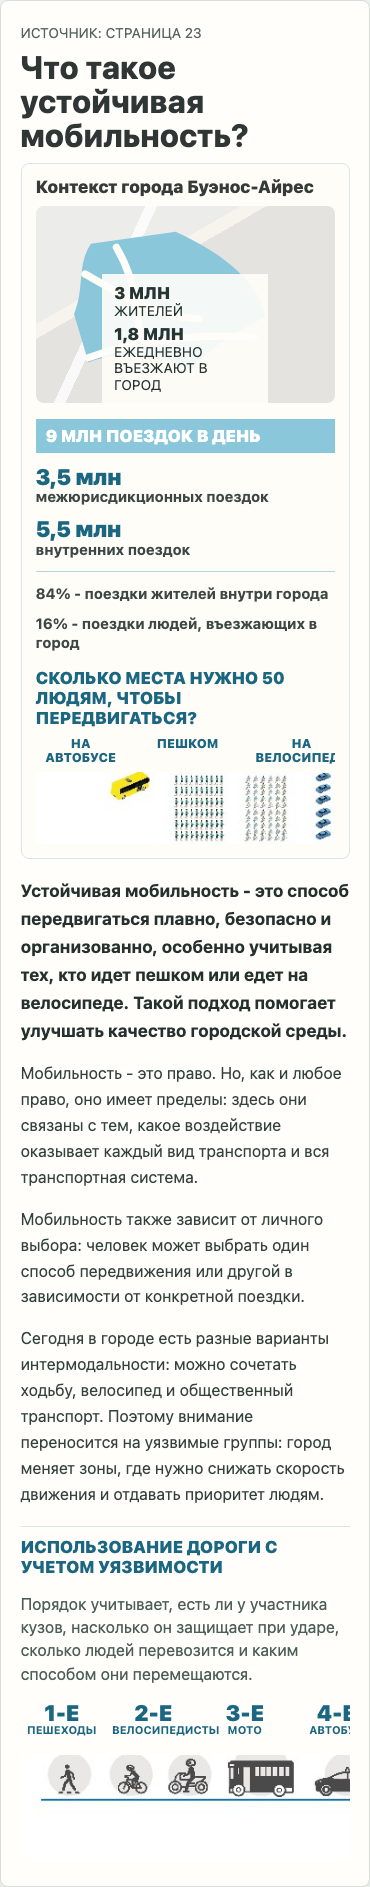
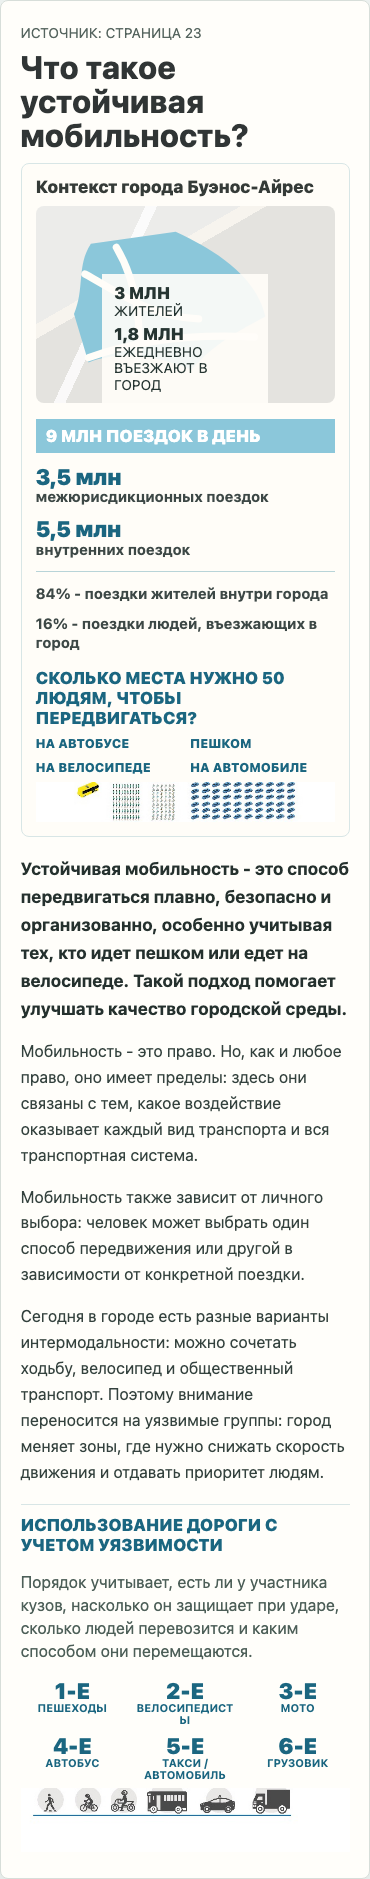
Fix mobile sustainable mobility infographic layout

diff --git a/tests/e2e/app.spec.ts b/tests/e2e/app.spec.ts
@@ -2771,6 +2771,12 @@ test("Manual guide exposes Chapter 1 section pages and keeps later sections pend
     if (document.documentElement.scrollWidth > viewportWidth + tolerance) {
       problems.push(`document horizontal overflow ${document.documentElement.scrollWidth} > ${viewportWidth}`);
     }
+    for (const scroller of Array.from(root.querySelectorAll(".manual-source-row-scroll"))) {
+      if (scroller.scrollWidth > scroller.clientWidth + tolerance) {
+        const parentBlock = scroller.closest("[data-block-id]");
+        problems.push(`${parentBlock?.getAttribute("data-block-id") ?? "source row"} requires horizontal scroll`);
+      }
+    }
     for (const element of Array.from(root.querySelectorAll('[data-testid="manual-guide-section-block"], .manual-space-labels span, .manual-vulnerability-labels span'))) {
       const rect = element.getBoundingClientRect();
       const style = window.getComputedStyle(element);

diff --git a/src/styles.css b/src/styles.css
@@ -3085,11 +3085,30 @@ small,
     grid-template-columns: 1fr;
   }
 
-  .manual-space-labels,
+  .manual-source-row-scroll {
+    overflow-x: visible;
+  }
+
+  .manual-space-labels {
+    grid-template-columns: repeat(2, minmax(0, 1fr));
+    min-width: 0;
+    text-align: left;
+  }
+
+  .manual-vulnerability-labels {
+    grid-template-columns: repeat(3, minmax(0, 1fr));
+    min-width: 0;
+  }
+
+  .manual-space-labels span,
+  .manual-vulnerability-labels span {
+    overflow-wrap: anywhere;
+  }
+
   .manual-space-comparison img,
-  .manual-vulnerability-labels,
   .manual-vulnerability-ranking img {
-    min-width: 540px;
+    max-width: 100%;
+    min-width: 0;
   }
 
   .intro-risk-heading-row {

diff --git a/specs/030-manual-chapters-1-2/tasks.md b/specs/030-manual-chapters-1-2/tasks.md
@@ -140,6 +140,8 @@ For each section key:
 - Implementation Agent dead end for `ch1-sustainable-mobility`: initial mobile screenshot showed the fixed-width infographic container could clip Russian headings because overflow was applied at the whole visual-block level. Resolution: moved horizontal scrolling to the narrow `.manual-source-row-scroll` pictogram rows only, kept headings/prose responsive DOM text, regenerated screenshots, and confirmed no document overflow.
 - Implementation Agent dead end for `ch1-sustainable-mobility`: focused Playwright assertions first failed on DOM text spacing and CSS uppercasing rather than behavior. Resolution: normalized assertion text and targeted semantic content instead of generated visual casing.
 - Implementation Agent Docker-smoke note for `ch1-sustainable-mobility`: the first ad hoc Docker Playwright smoke queried the first `[data-manual-section-id="ch1-sustainable-mobility"]`, which is the navigation button, not the rendered article. Resolution: reran the smoke against `[data-testid="manual-guide-section"][data-manual-section-id="ch1-sustainable-mobility"]`; the Docker route passed.
+- Implementation Agent follow-up for `ch1-sustainable-mobility`: Orchestrator visual inspection found the committed mobile screenshot still required horizontal scrolling for core infographic rows, clipping the `НА ВЕЛОСИПЕДЕ` / car comparison and the car/truck vulnerability items. Resolution: reflowed the label grids on narrow screens, removed the mobile fixed minimum row width, scaled the source-derived icon strips to the viewport, and added an e2e guard that `.manual-source-row-scroll` rows must not require horizontal scrolling.
+- Implementation Agent follow-up note for `ch1-sustainable-mobility`: the first focused Playwright rerun after the CSS change was started concurrently with `pnpm run build`, so `vite preview` served the previous `dist` and correctly reported the old horizontal-scroll issue. Resolution: reran focused Playwright after build completed; the strengthened desktop/mobile test passed.
 
 ### Decisions
 
@@ -167,6 +169,7 @@ For each section key:
 - Implementation Agent decision for `ch1-sustainable-mobility`: source page `23` contains meaningful infographic artwork. The learner page preserves the city-context/trips/modal-space and vulnerability-order information as native Russian DOM labels plus local source-derived non-text pictogram crops, rather than generic icon substitutions or Spanish source crops.
 - Implementation Agent decision for `ch1-sustainable-mobility`: Spanish source crops are committed only under `content/validation/manual-guide/ch1-sustainable-mobility/` as validation evidence. The runtime learner UI does not render the full source page, validation crops, Spanish labels, broad masks/plates, PDF viewer, or page chrome.
 - Implementation Agent decision for `ch1-sustainable-mobility`: fixed pictogram strips may scroll horizontally inside `.manual-source-row-scroll` on narrow viewports, but headings, prose, stats, and labels remain responsive selectable DOM content outside the scroller.
+- Implementation Agent follow-up decision for `ch1-sustainable-mobility`: core mobile infographic rows must not depend on horizontal scrolling. The modal-space labels reflow into two columns, vulnerability labels reflow into three columns, and both source-derived pictogram strips scale down to fit the viewport while desktop keeps the original horizontal composition.
 
 ### Known Issues
 
@@ -181,6 +184,7 @@ For each section key:
 - PR #177 current-head source-order conflict at `b1117ddee0e71a72ce4d8416c39b406161cf3eb2`: Architect disposition: resolved; Implementation Agent restored source-crop order, final Architect/Analyst validation reran for effective content head `f59c7a57d2b1a4a9571e00bf6a8821cb7ed2ac0d`, and no owner or human decision remains.
 - PR #177 current-head source-order conflict `PRRT_kwDOSX65IM6F2v9j` / `discussion_r3328424446`: Architect disposition: resolved; source-crop order was restored, all PR #177 review threads were resolved by Orchestrator, and final Architect/Analyst validation passed for effective content head `f59c7a57d2b1a4a9571e00bf6a8821cb7ed2ac0d`.
 - No unresolved known issues for local `ch1-sustainable-mobility` implementation at the time of focused local verification. Architect/Review/Orchestrator validation remains pending after PR creation.
+- Orchestrator visual-inspection blocker for `ch1-sustainable-mobility` mobile infographic clipping is resolved locally by the follow-up responsive reflow and regenerated mobile screenshot; Review/Orchestrator confirmation remains pending after push.
 
 ### Verification Evidence
 
@@ -239,7 +243,7 @@ For each section key:
[5 lines of base64/hex data omitted]
 - In-app browser verification for `ch1-sustainable-mobility`: direct route `http://127.0.0.1:5188/#manual-section-ch1-sustainable-mobility` rendered `data-manual-section-id="ch1-sustainable-mobility"`, no visible Spanish section text, no document-level horizontal overflow, desktop content height `1327.375`, mobile content height `1886.734`, and mobile `clippedHeading` check `false`.
 - Focused local verification passed for `ch1-sustainable-mobility`: `node scripts/manual-guide-source-fidelity.mjs` returned `status: pass`, `implementedSections: 2`, `pendingSections: 8`, skipped source pages `[21, 43, 56]`, shared source pages `[55]`, and source-crop/screenshot evidence recorded for both implemented sections.
 - Focused local verification passed for `ch1-sustainable-mobility`: `node --test tests/content-manual-guide-chapters.test.mjs` passed `18/18`; `pnpm exec tsc --noEmit` passed; `pnpm run build` passed including content validation, manual-guide checker, Vite build, and service-worker generation; `pnpm exec playwright test tests/e2e/app.spec.ts -g "Manual guide exposes Chapter 1 section pages"` passed `2/2` across desktop Chromium and mobile projects; `git diff --check` passed.
@@ -247,6 +251,11 @@ For each section key:
 - Full local preflight passed for `ch1-sustainable-mobility`: `pnpm run preflight` completed `check-feature-memory`, `check:repo`, `validate:content`, `pnpm run test` with `327/327` passing node tests, `pnpm run build`, and full Playwright e2e with `74/74` passing tests across desktop/mobile projects.
 - Docker runtime smoke passed for `ch1-sustainable-mobility` with isolated project/port: `docker version --format '{{.Server.Version}}'` reported `27.5.1`; `lsof -nP -iTCP:5196 -sTCP:LISTEN` returned no listener; `COMPOSE_PROJECT_NAME=cabadrive030sustainable CABADRIVE_HOST_PORT=5196 make build` built the image and reran content validation/build inside Docker; `COMPOSE_PROJECT_NAME=cabadrive030sustainable CABADRIVE_HOST_PORT=5196 make up` started the container; `curl -fsS http://127.0.0.1:5196/ | head -n 5` returned the Russian HTML shell; a Playwright smoke of `http://127.0.0.1:5196/#manual-section-ch1-sustainable-mobility` confirmed the route hash, article test id, Russian title, `9 млн` / `3,5 млн` / `5,5 млн`, `Пешеходы` / `Грузовик`, two `data-visible-spanish="false"` images, no visible Spanish text, and no document-level horizontal overflow; `COMPOSE_PROJECT_NAME=cabadrive030sustainable CABADRIVE_HOST_PORT=5196 make down` stopped the runtime; `docker compose -p cabadrive030sustainable ps --all` showed no remaining containers.
 - Ready PR opened for `ch1-sustainable-mobility`: PR #178, `https://github.com/cucumberfalse/cabadrive/pull/178`, branch `codex/030-ch1-sustainable-mobility`, implementation content head `c068245dd3ed4138735b2b12dc50d27f688bce8c`, draft status `false`. Final handoff head is the later process-memory evidence commit reported by the Implementation Agent after push.
+- Follow-up visual verification before focused test rerun: in-app browser route `http://127.0.0.1:5188/#manual-section-ch1-sustainable-mobility` rendered row metrics with no horizontal row overflow (`city-context-infographic` `722/722`, `vulnerability-order` `760/760`) and no document overflow. Regenerated Playwright screenshot metrics showed desktop rows `722/722` and `760/760`; mobile rows `299/299` and `329/329`; hidden-right-label list was empty.
+- Follow-up focused verification passed for `ch1-sustainable-mobility`: `node scripts/manual-guide-source-fidelity.mjs` returned `status: pass`, `implementedSections: 2`, `pendingSections: 8`, skipped source pages `[21, 43, 56]`, shared source pages `[55]`, and source-crop/screenshot evidence recorded for both implemented sections.
+- Follow-up focused verification passed for `ch1-sustainable-mobility`: `node --test tests/content-manual-guide-chapters.test.mjs` passed `18/18`; `pnpm exec tsc --noEmit` passed; `git diff --check` passed; `node scripts/check-feature-memory.mjs --worktree` passed.
+- Follow-up build and visual e2e verification passed for `ch1-sustainable-mobility`: `pnpm run build` passed including content validation, manual-guide checker, Vite build, and service-worker generation; `pnpm exec playwright test tests/e2e/app.spec.ts -g "Manual guide exposes Chapter 1 section pages"` passed `2/2` across desktop Chromium and Pixel 7 mobile after the rebuilt CSS.
+- Follow-up full local preflight passed for `ch1-sustainable-mobility`: `pnpm run preflight` completed `check-feature-memory`, `check:repo`, `validate:content`, `pnpm run test` with `327/327` passing node tests, `pnpm run build`, and full Playwright e2e with `74/74` passing tests across desktop/mobile projects.
 
 ### Cycle PR Set
 
@@ -256,7 +265,7 @@ For each section key:
 | shared-section-prereq | Shared correction/prerequisite for section registry/routes/checker/style, no section content | `codex/030-section-requirement-correction` | PR #176, `https://github.com/cucumberfalse/cabadrive/pull/176` | post-P1 implementation head to be reported by Implementation Agent after commit/push | Scoring source-boundary registry/test fix implemented locally; review-thread/final-validation state pending Orchestrator routing | yes |
 | PR-175-page-021-disposition | Existing PR #175 / `page-021` divider-only implementation | `codex/030-page-021` | PR #175, `https://github.com/cucumberfalse/cabadrive/pull/175` | `1e8334676ba26d867194dcc9b884758465837959` | closed unmerged, superseded by corrected section-based contract | no |
 | `ch1-cities-for-people` | Implement website section page `Ciudades para las personas` / `Города для людей` with source page `22` evidence and selectable `ПЛАВНОСТЬ / БЕЗОПАСНОСТЬ` visual | `codex/030-ch1-cities-for-people` | PR #177, `https://github.com/cucumberfalse/cabadrive/pull/177` | prior effective content head `499aa8547f7d13b3b9819cbd0d2e8650fa99da06` is stale after source-order P2; final crop-order fix head reported after push | crop-order fix implemented locally; focused checker/content/build/Playwright, diff hygiene, and feature-memory check passed; final validation must rerun | yes |
-| `ch1-sustainable-mobility` | Implement website section page `¿Qué es la movilidad sustentable?` / `Что такое устойчивая мобильность?` with source page `23` infographic and vulnerability-order evidence | `codex/030-ch1-sustainable-mobility` | PR #178, `https://github.com/cucumberfalse/cabadrive/pull/178` | implementation content head `c068245dd3ed4138735b2b12dc50d27f688bce8c`; final PR-metadata evidence head reported after push | implemented and opened ready; focused source-fidelity/content/tsc/build/Playwright/diff, full test, full preflight, and Docker smoke passed; Review/Orchestrator gates pending | yes |
+| `ch1-sustainable-mobility` | Implement website section page `¿Qué es la movilidad sustentable?` / `Что такое устойчивая мобильность?` with source page `23` infographic and vulnerability-order evidence | `codex/030-ch1-sustainable-mobility` | PR #178, `https://github.com/cucumberfalse/cabadrive/pull/178` | implementation content head `c068245dd3ed4138735b2b12dc50d27f688bce8c`; prior PR-metadata evidence head `73df18169ad941501a3ce7b5f8c77af14ff9fc43`; follow-up responsive-fix head reported after push | implemented and opened ready; mobile infographic clipping follow-up implemented locally; focused source-fidelity/content/tsc/build/Playwright/diff, full test, full preflight, and Docker smoke passed; Review/Orchestrator gates pending | yes |
 | `ch1-pedestrian-priority` | Implement website section page `Prioridad peatonal` | pending Orchestrator assignment | pending | pending | pending | yes |
 | `ch1-bicycle` | Implement website section page `Bicicleta` | pending Orchestrator assignment | pending | pending | pending | yes |
 | `ch1-public-transport-system` | Implement website section page `Sistema de transporte público` | pending Orchestrator assignment | pending | pending | pending | yes |
